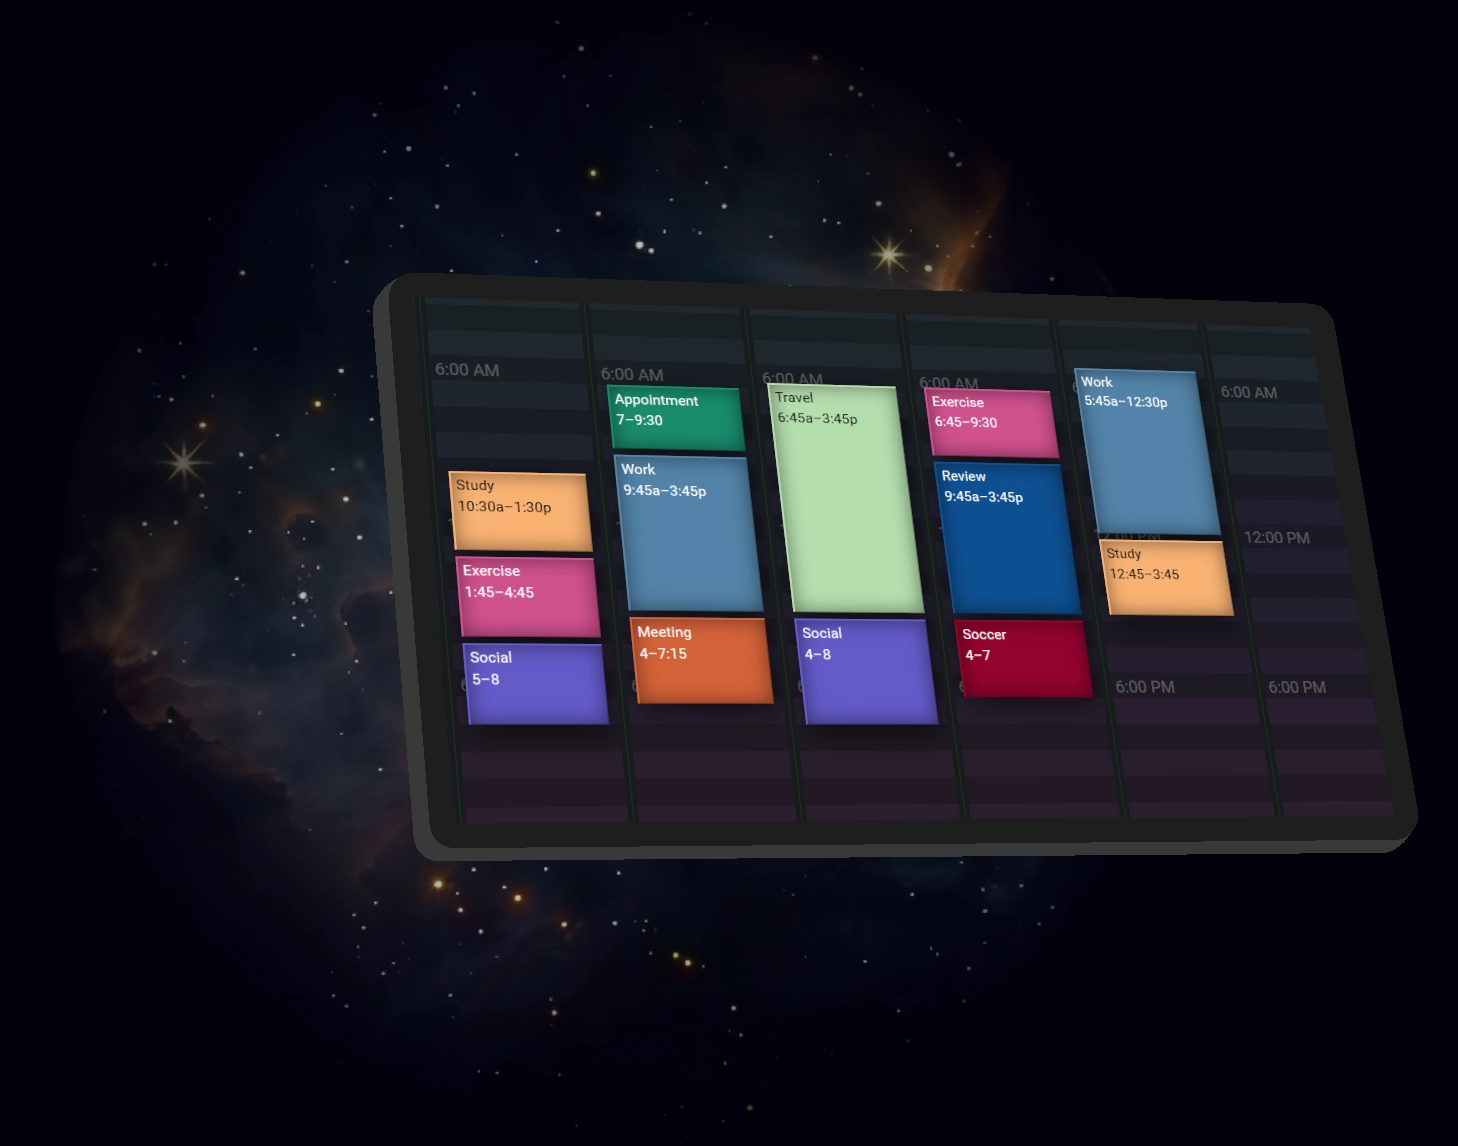
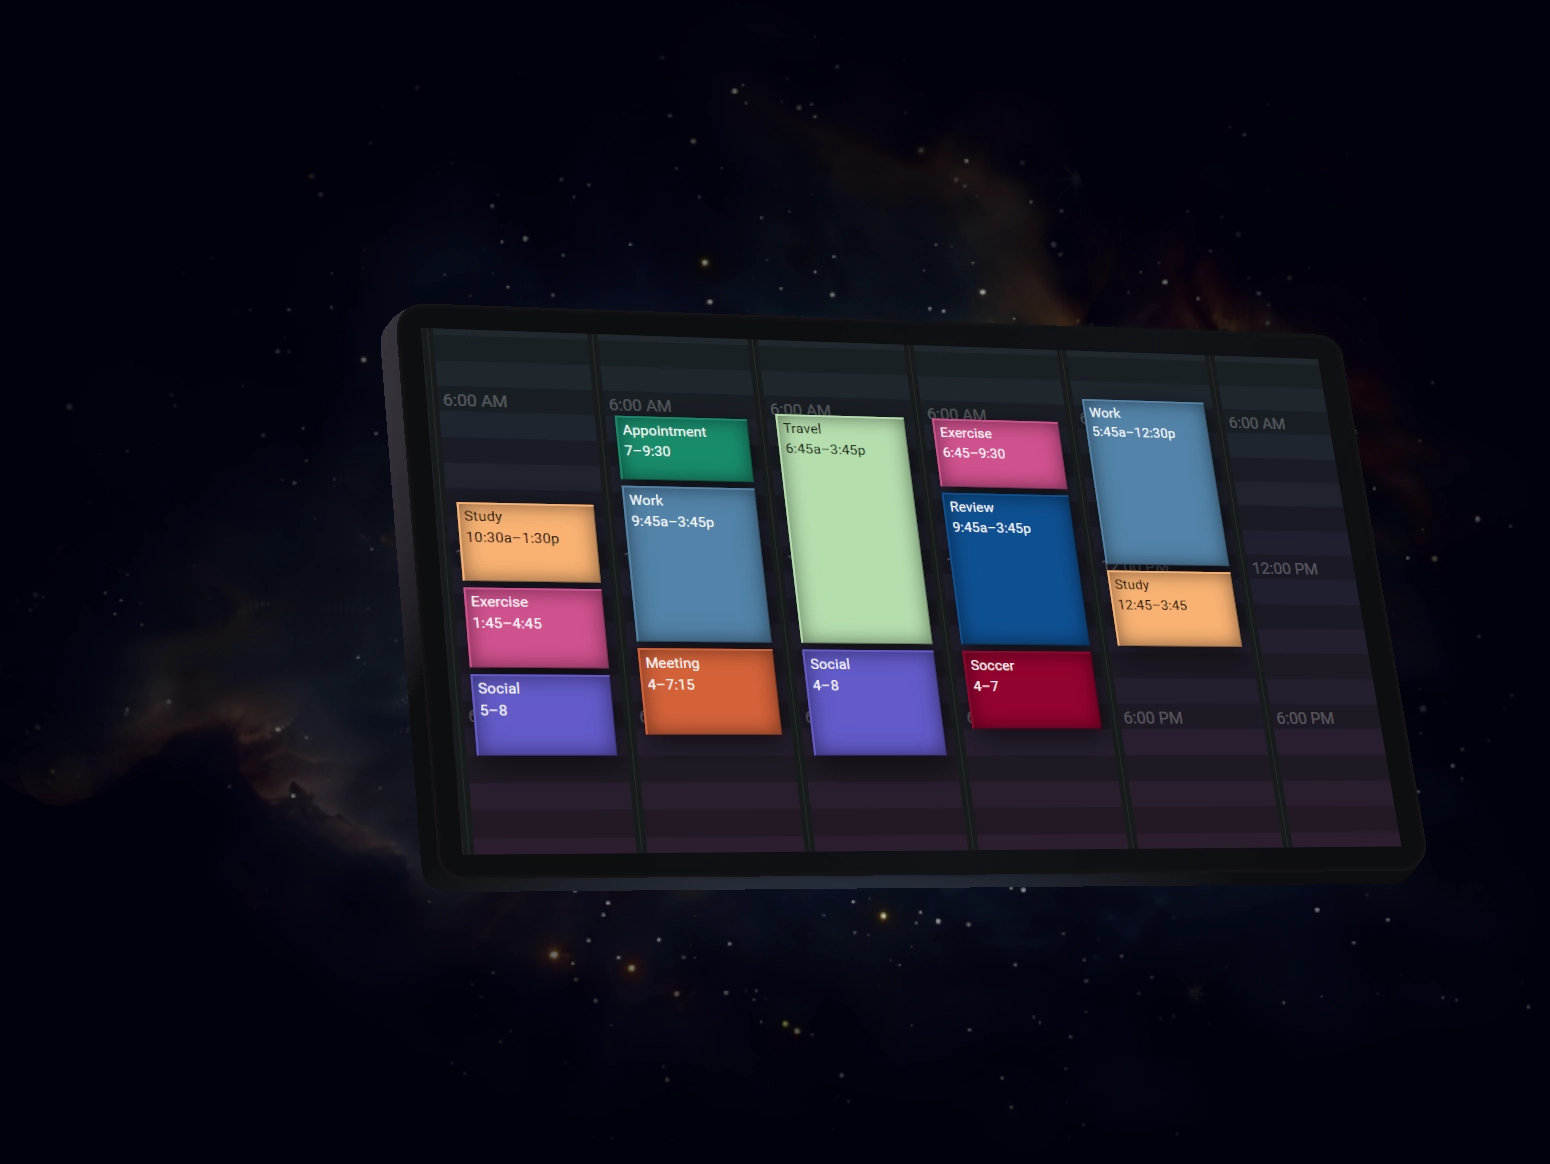
Polish device image

diff --git a/welcome.html b/welcome.html
@@ -347,7 +347,7 @@ section:first-of-type {
 .bg-device {
   background-image: url('/device-example.webp');
   background-repeat: no-repeat;
-  background-position: calc(50% + 200px) calc(50% + 10px);
+  background-position: calc(50% + 250px) calc(50% - 10px);
   background-size: auto 80vh;
 }
 
